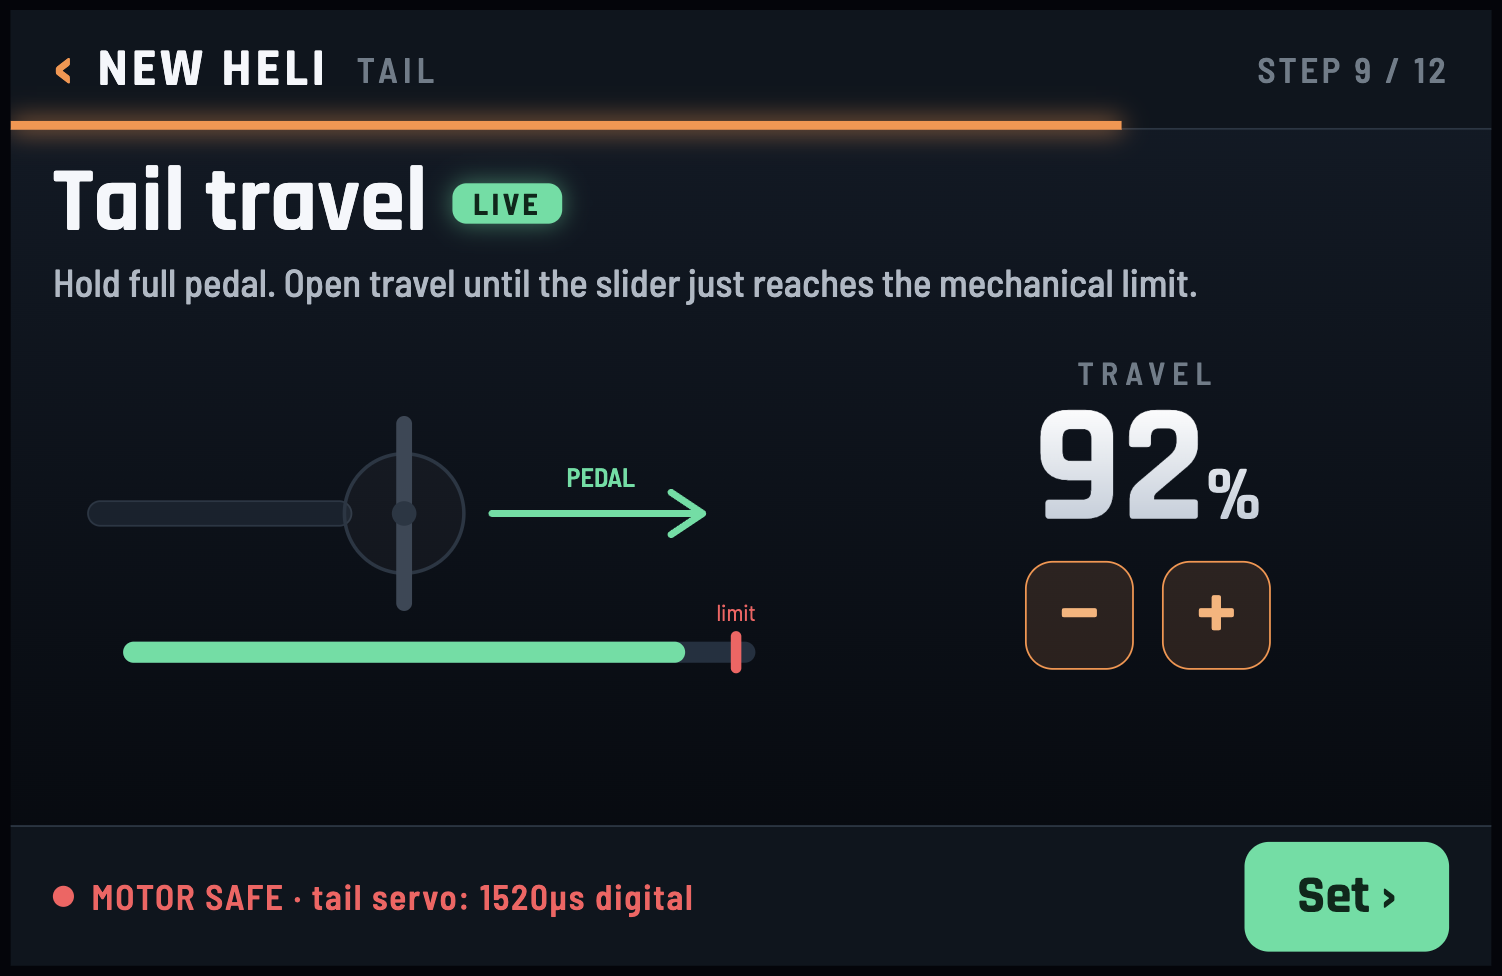
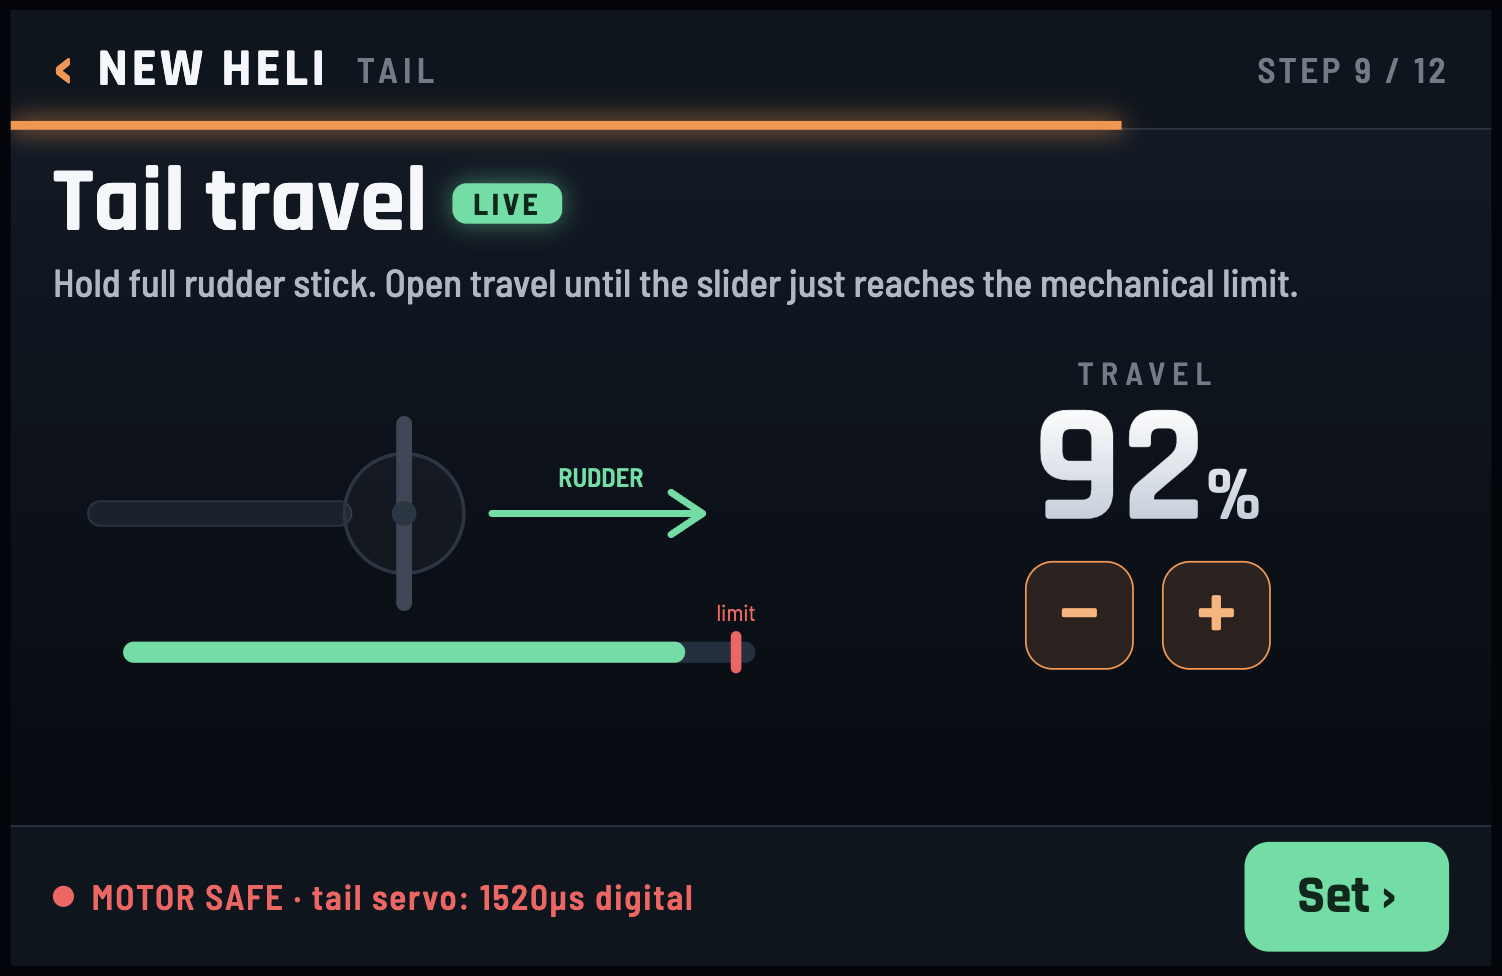
Wizard: tail step uses 'rudder stick' not 'pedal' (RC radio, not full-size)

Changed region(s): [[0.1225, 0.2766, 0.8575, 0.3074], [0.3675, 0.4611, 0.4288, 0.5225]]

diff --git a/docs/mockups/wiz-tail.html b/docs/mockups/wiz-tail.html
@@ -4,7 +4,7 @@
 <div class="screen">
   <div class="hd"><span class="bk">‹</span><b>NEW HELI</b><span class="sec">Tail</span><span class="step">STEP 9 / 12</span><div class="pbar" style="width:75%"></div></div>
   <div class="title">Tail travel <span class="live">LIVE</span></div>
-  <div class="sub">Hold full pedal. Open travel until the slider just reaches the mechanical limit.</div>
+  <div class="sub">Hold full rudder stick. Open travel until the slider just reaches the mechanical limit.</div>
   <div class="stage">
     <div class="diagram" style="flex:0 0 440px;height:220px">
       <svg width="440" height="220" viewBox="0 0 440 220">
@@ -16,7 +16,7 @@
         <circle cx="200" cy="111" r="7" fill="#2a3644"/>
         <!-- travel arrows -->
         <path d="M250 111 h120 m-18 -12 l18 12 l-18 12" fill="none" stroke="var(--green)" stroke-width="4" stroke-linecap="round" stroke-linejoin="round"/>
-        <text x="312" y="96" fill="var(--green)" font-family="Barlow Semi Condensed" font-weight="600" font-size="15" text-anchor="middle">PEDAL</text>
+        <text x="312" y="96" fill="var(--green)" font-family="Barlow Semi Condensed" font-weight="600" font-size="15" text-anchor="middle">RUDDER</text>
         <!-- travel slider -->
         <rect x="40" y="184" width="360" height="12" rx="6" fill="#223040"/>
         <rect x="40" y="184" width="320" height="12" rx="6" fill="var(--green)"/>